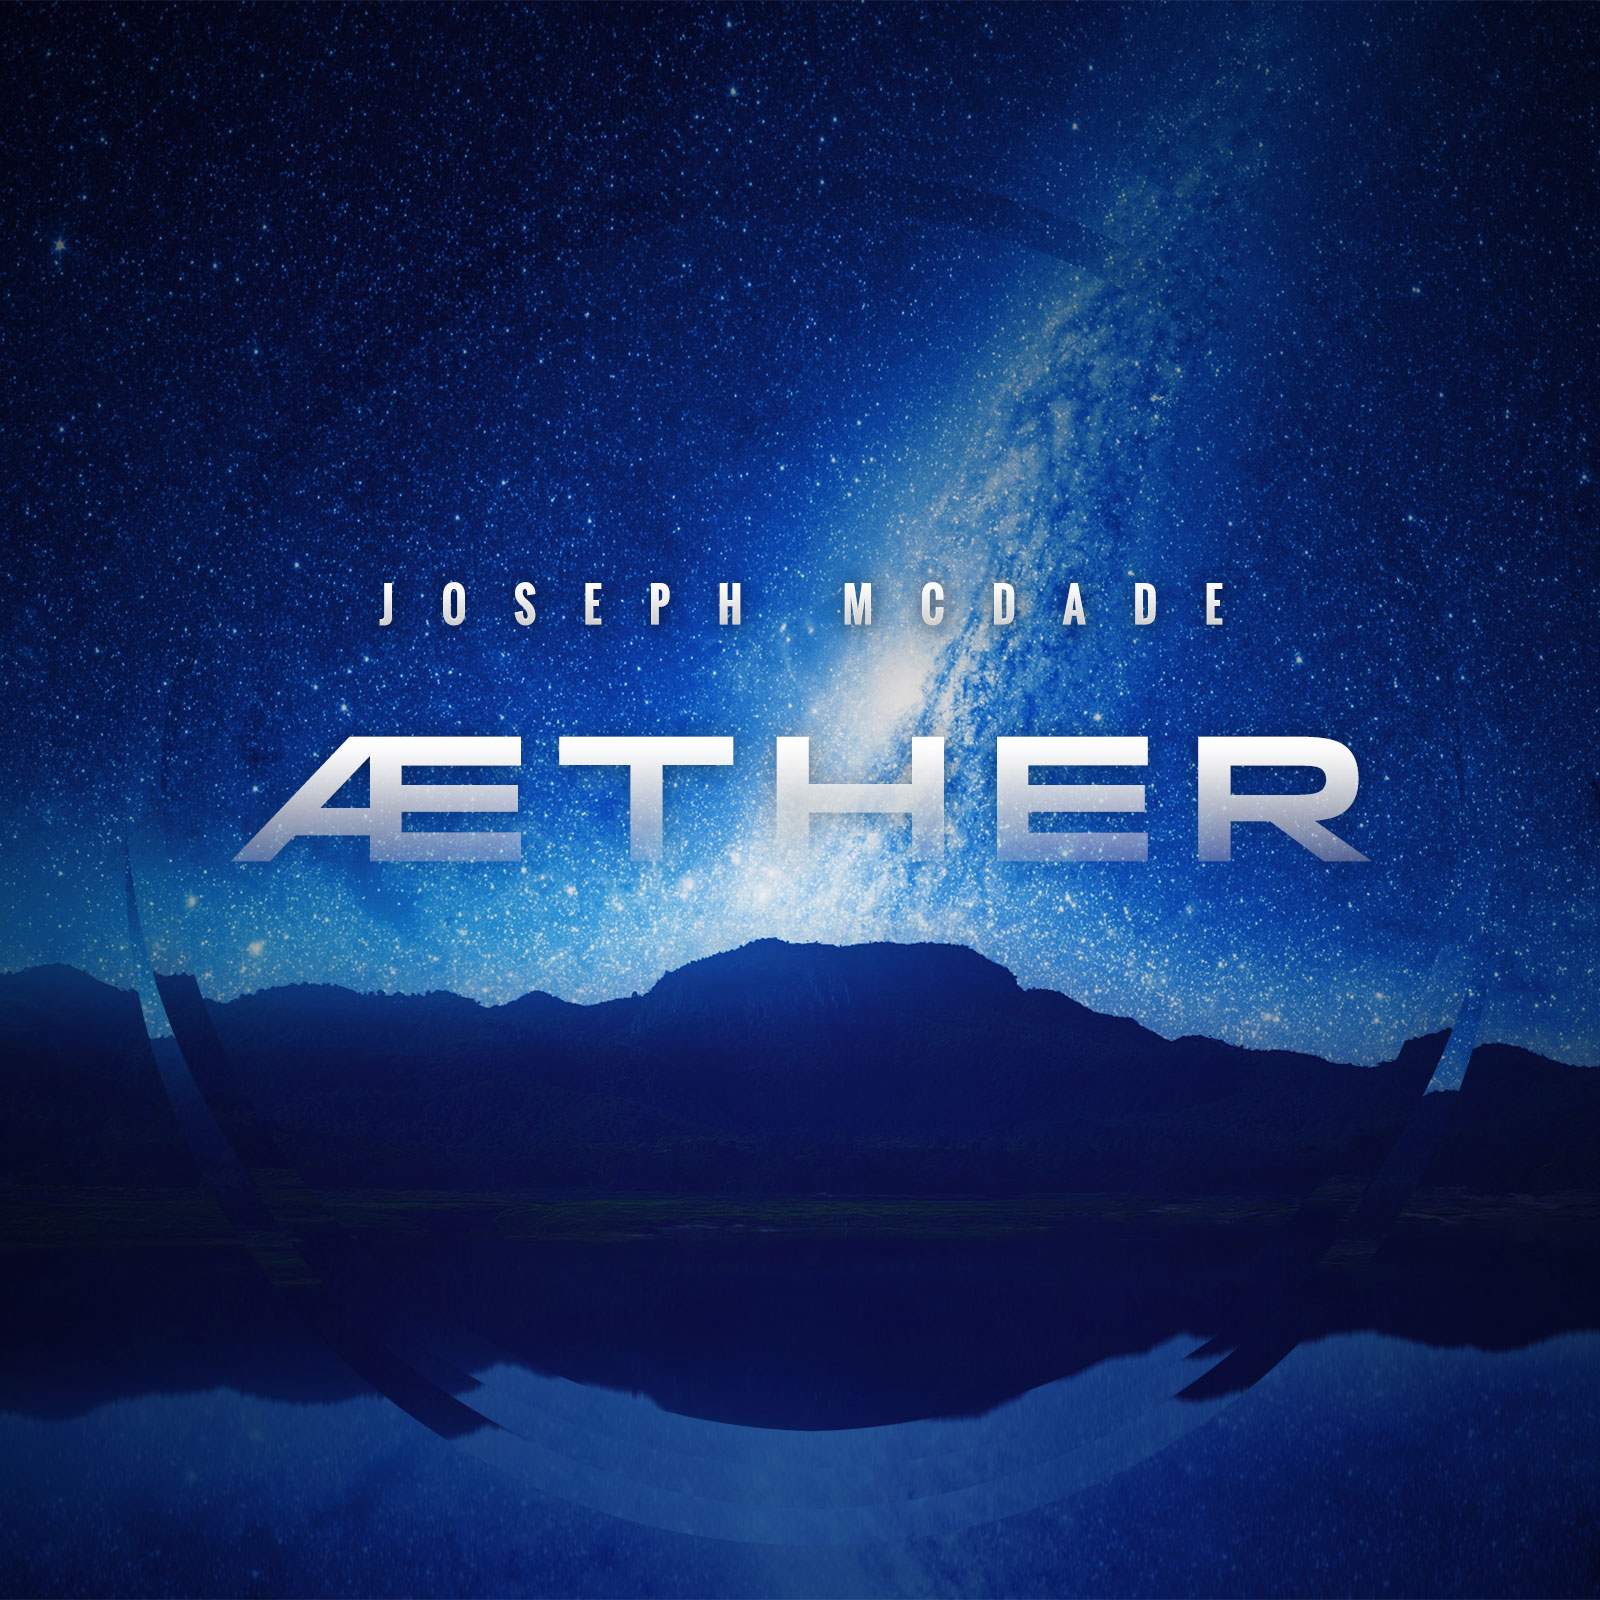
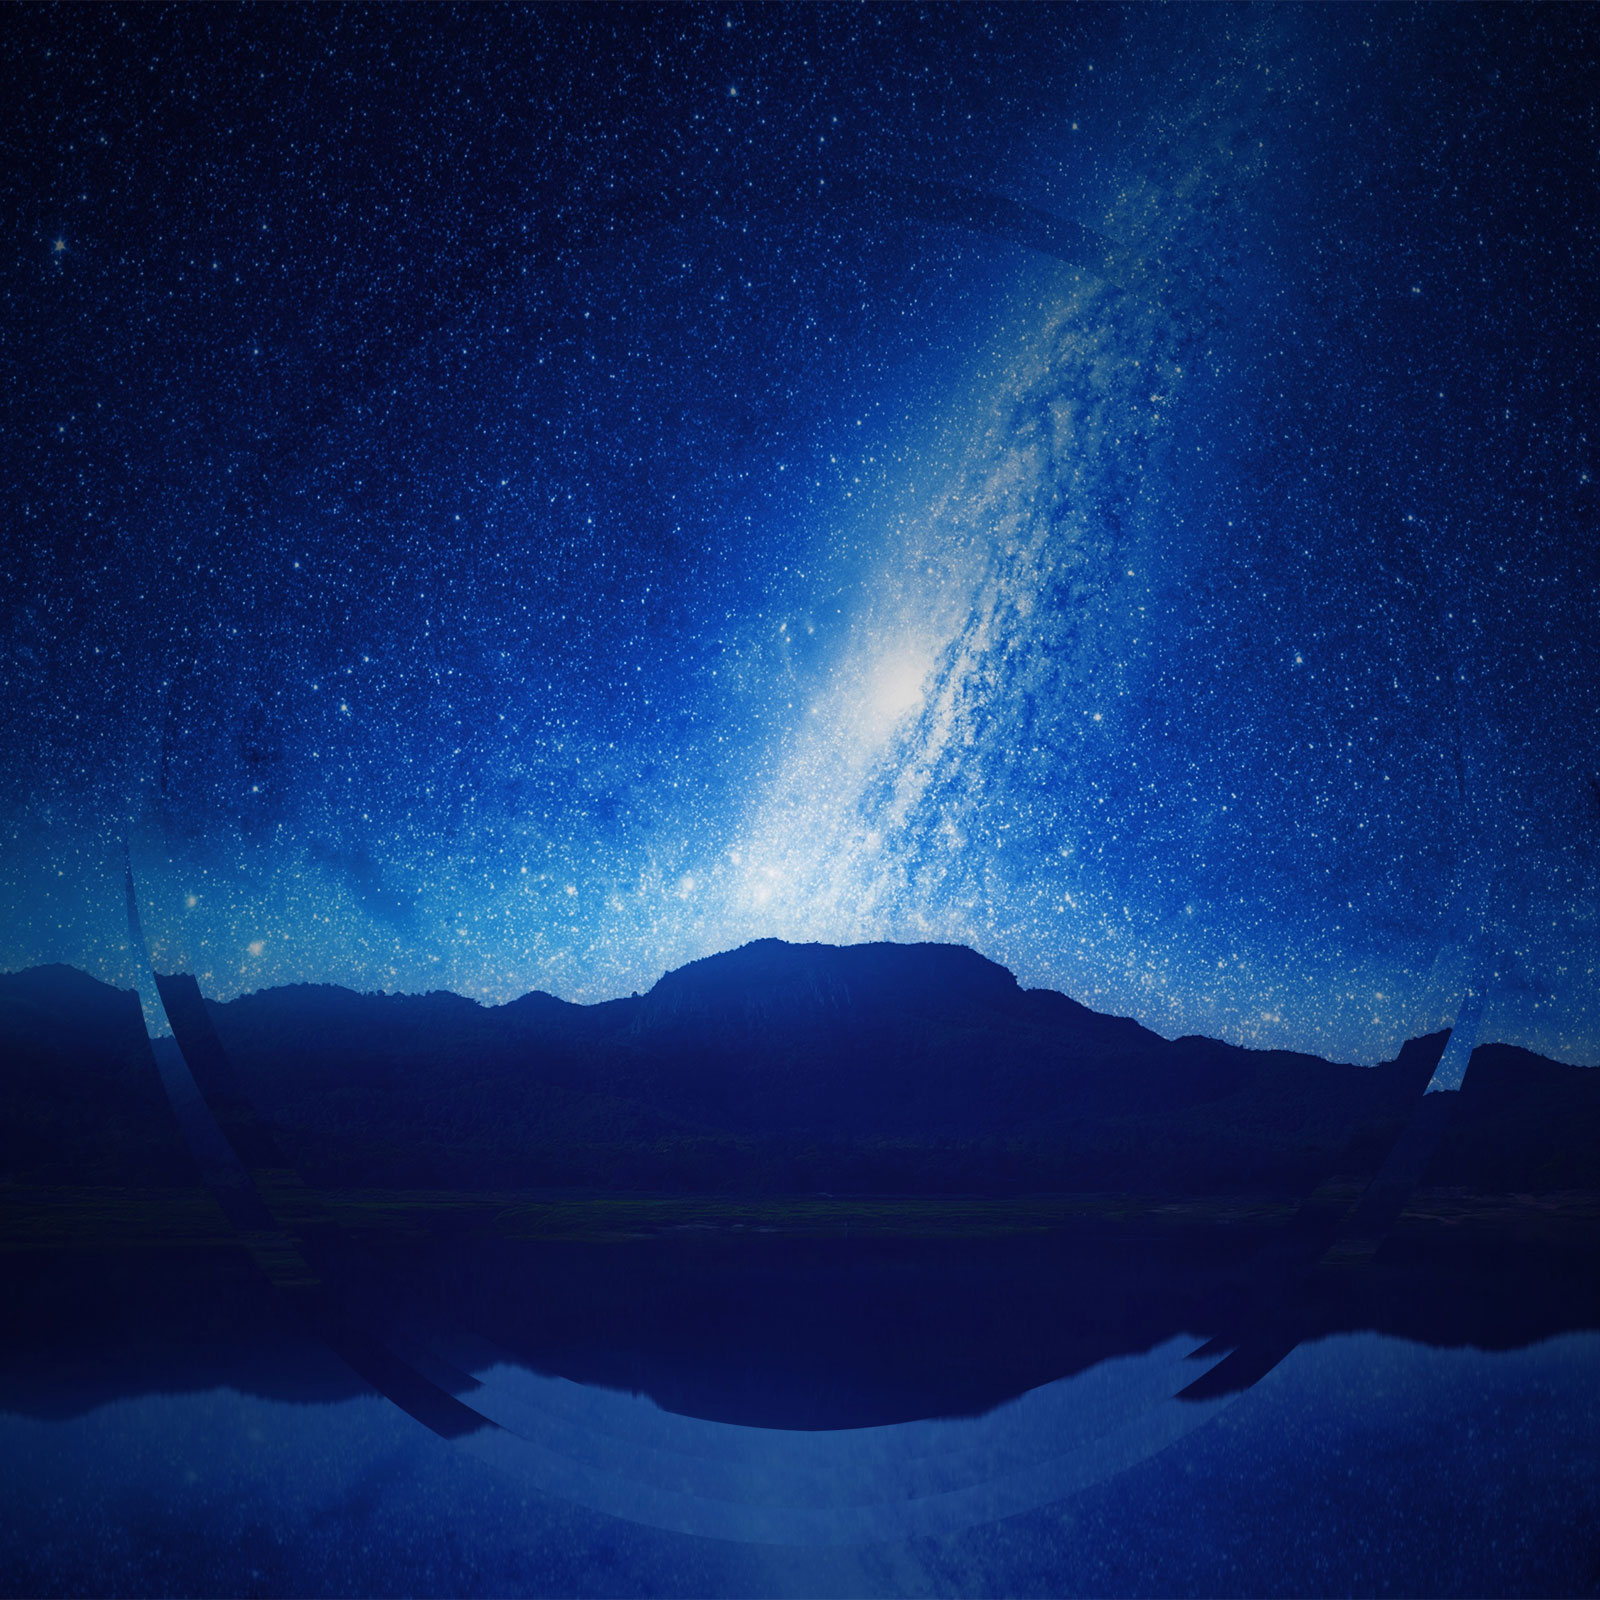
better responsive

diff --git a/index.php b/index.php
@@ -12,14 +12,24 @@
             -o-background-size: cover;
             background-size: cover;
         }
-        a {
-            display: block;
-            width: 100vh;
+        .container {
+            display: flex;
+            align-items: center;
             height: 100vh;
         }
+        a {
+            text-align: center;
+            display: block;
+            width: 100%;
+        }
+        img { max-width: 75%; flex: 1; display: inline; }
     </style>
 </head>
 <body>
-    <a href="https://www.facebook.com/josephmcdademusic"></a>
+    <div class="container">
+        <a href="https://www.facebook.com/josephmcdademusic">
+            <img src="joseph-mcdade-logo.png" alt="Joseph McDade - Æther" />
+        </a>
+    </div>
 </body>
 </html>
